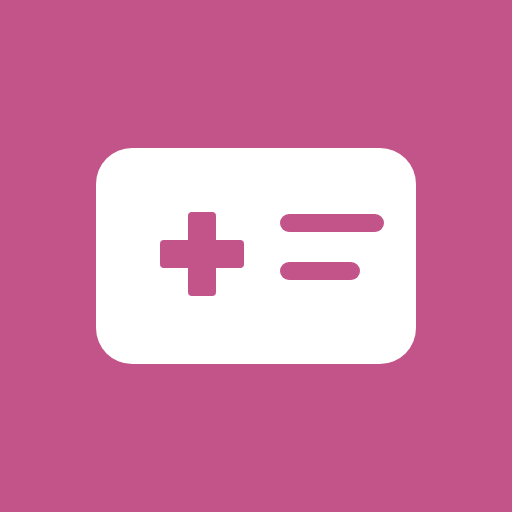
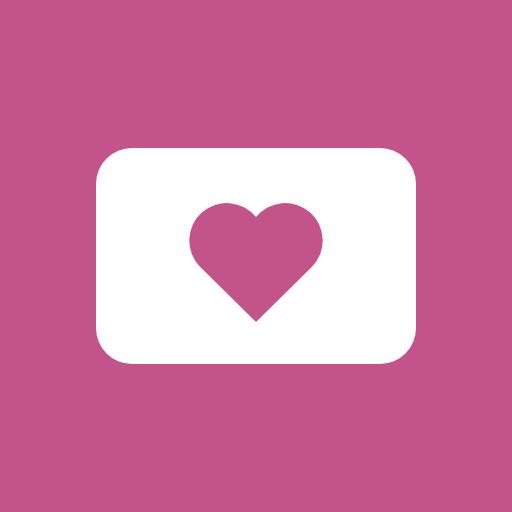
Icono E (tarjeta con corazon) y pantalla de carga rosada
Claude-Session: https://claude.ai/code/session_01DTfCxq6do76KxAmLraHJxF

Changed region(s): [[0.3125, 0.375, 0.75, 0.625]]

diff --git a/index.html b/index.html
@@ -4,8 +4,8 @@
 <meta charset="UTF-8">
 <meta name="viewport" content="width=device-width, initial-scale=1, maximum-scale=1">
 <title>Mi Ficha</title>
[4 lines of base64/hex data omitted]
 <meta name="theme-color" content="#c2548a">
 <link rel="manifest" href="manifest.webmanifest">
 <style>
@@ -87,9 +87,13 @@ textarea{width:100%;height:120px;font:14px monospace;padding:10px;border:2px sol
 #dlg{display:none;position:fixed;inset:0;background:rgba(40,30,60,.45);align-items:center;justify-content:center;padding:20px;z-index:9}
 #dlg .m{background:#fff;border-radius:20px;padding:20px;max-width:380px;width:100%}
 #dlg p{font-size:22px;margin:0 0 16px}
+#splash{position:fixed;inset:0;background:#c2548a;display:flex;align-items:center;justify-content:center;z-index:99;animation:splashOut .45s ease 1.3s forwards}
+#splash img{width:220px;height:220px;display:block}
+@keyframes splashOut{to{opacity:0;visibility:hidden}}
 </style>
 </head>
 <body>
[1 lines of base64/hex data omitted]
 <svg width="0" height="0" style="position:absolute" aria-hidden="true"><defs>
 <symbol id="i-user" viewBox="0 0 24 24"><circle cx="12" cy="7" r="4"/><path d="M6 21v-2a4 4 0 0 1 4-4h4a4 4 0 0 1 4 4v2"/></symbol>
 <symbol id="i-phone" viewBox="0 0 24 24"><path d="M5 4h4l2 5l-2.5 1.5a11 11 0 0 0 5 5l1.5-2.5l5 2v4a2 2 0 0 1-2 2a16 16 0 0 1-15-15a2 2 0 0 1 2-2"/></symbol>

diff --git a/sw.js b/sw.js
@@ -1,4 +1,4 @@
-var C="mi-ficha-v1";
+var C="mi-ficha-v2";
 var FILES=["./","./index.html","./manifest.webmanifest","./icon-192.png","./icon-512.png"];
 self.addEventListener("install",function(e){e.waitUntil(caches.open(C).then(function(c){return c.addAll(FILES)}));self.skipWaiting()});
 self.addEventListener("activate",function(e){e.waitUntil(caches.keys().then(function(ks){return Promise.all(ks.filter(function(k){return k!==C}).map(function(k){return caches.delete(k)}))}));self.clients.claim()});
